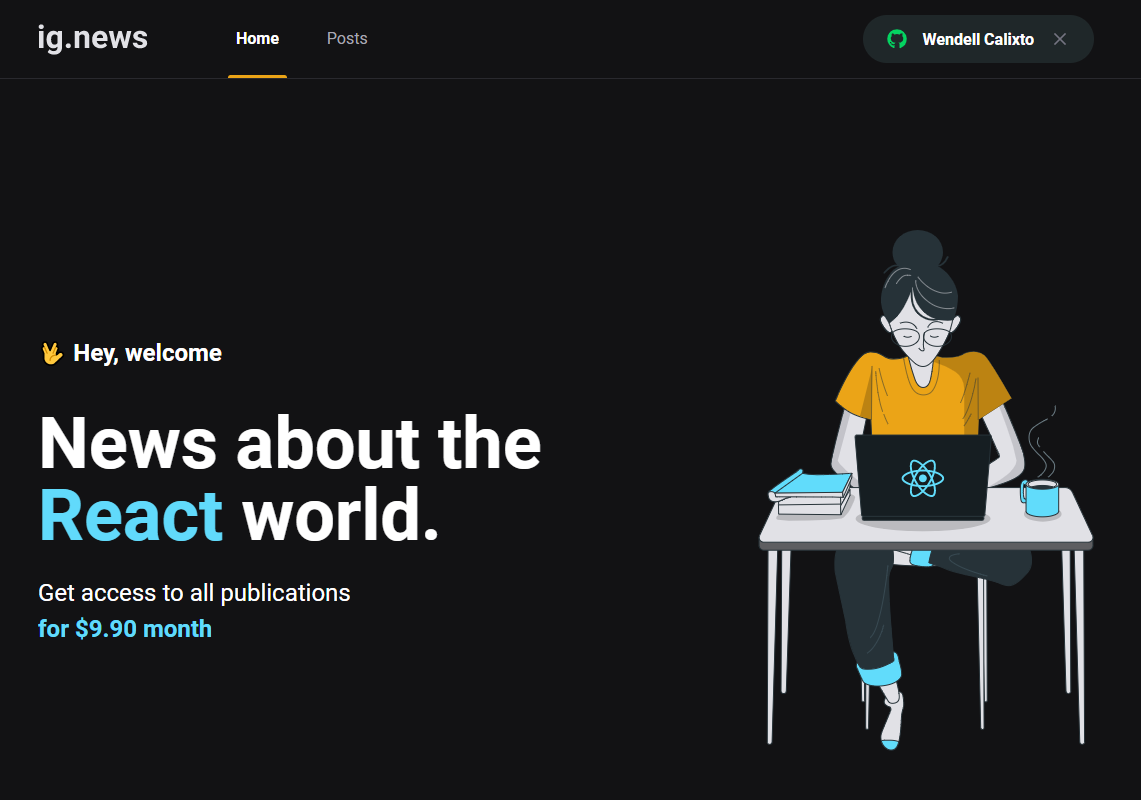
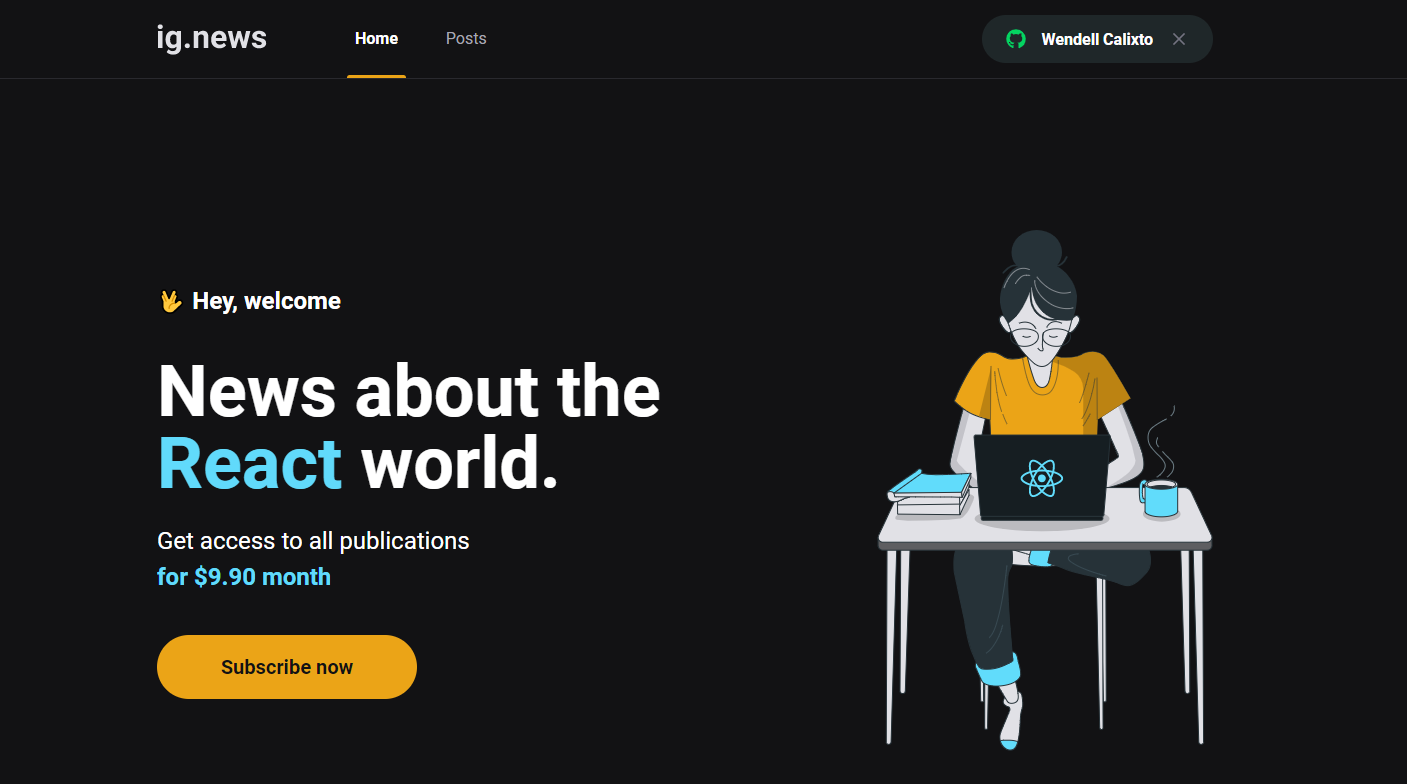
Feat: Home styles and README edit :sparkles:

diff --git a/src/pages/index.tsx b/src/pages/index.tsx
@@ -1,4 +1,5 @@
 import Head from "next/head";
+import { SubscribeButton } from "../components/SubscribeButton";
 import styles from "./home.module.scss";
 
 export default function Home() {
@@ -18,6 +19,7 @@ export default function Home() {
             Get access to all publications <br />
             <span>for $9.90 month</span>
           </p>
+          <SubscribeButton />
         </section>
 
         <img src="/images/avatar.svg" alt="Girl coding" />

diff --git a/src/components/SubscribeButton/styles.module.scss b/src/components/SubscribeButton/styles.module.scss
@@ -1,0 +1,20 @@
+.subscribeButton{
+    width: 260px;
+    height: 4rem;
+    border: 0;
+    border-radius: 2rem;
+    background: var(--yellow-500);
+    color: var(--gray-900);
+    font-size: 1.25rem;
+    font-weight: bold;
+
+    display: flex;
+    align-items: center;
+    justify-content: center;
+
+    transition: filter 0.2s;
+
+    &:hover {
+        filter: brightness(0.8);
+    }
+}

diff --git a/src/components/SubscribeButton/index.tsx b/src/components/SubscribeButton/index.tsx
@@ -1,0 +1,9 @@
+import styles from "./styles.module.scss";
+
+export function SubscribeButton() {
+  return (
+    <button className={styles.subscribeButton} type="button">
+      Subscribe now
+    </button>
+  );
+}

diff --git a/src/pages/home.module.scss b/src/pages/home.module.scss
@@ -38,4 +38,8 @@
             font-weight: bold;
         }
     }
+
+    button {
+        margin-top: 2.5rem;
+    }
 }
